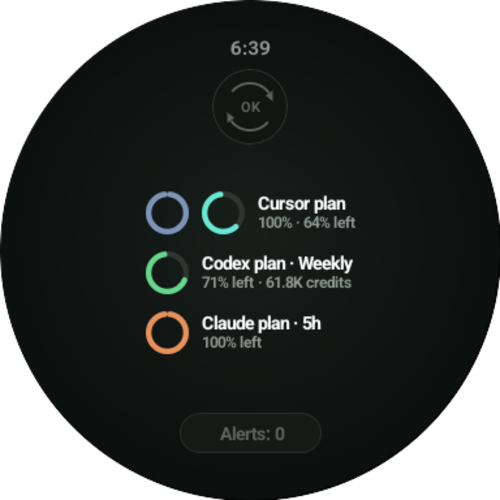
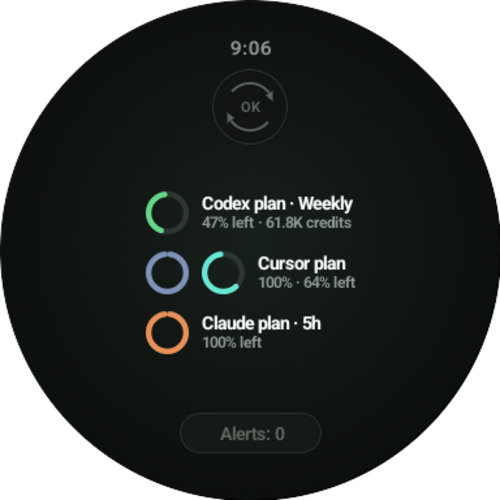
docs(docs): align showcases with one application state

Changed region(s): [[0.27, 0.36, 0.72, 0.6], [0.45, 0.06, 0.54, 0.12]]

diff --git a/docs/site/vocs.config.ts b/docs/site/vocs.config.ts
@@ -31,19 +31,19 @@ type HtmlNode = {
 const screenshots = [
   {
     url: '/screenshots/phone-dashboard-overview-light.png',
-    alt: 'WardPulse phone Dashboard showing Claude plan windows and organization usage history in the light theme.',
+    alt: 'WardPulse phone Dashboard showing Claude plan windows at 100% left and organization usage history of 39 tokens in the light theme.',
     caption: 'Phone Dashboard · Plan windows and usage history',
     darkOriginalUrl: '/screenshots/phone-dashboard-overview-dark.png',
   },
   {
     url: '/screenshots/wear-glance-overview.png',
-    alt: 'WardPulse Watch Glance showing Cursor, Codex and Claude plan capacity with purchased credits.',
-    caption: 'Watch Glance · Plan capacity and credits',
+    alt: 'WardPulse Watch Glance showing Codex Weekly at 47% left with 61.8K purchased credits, Cursor at 100% / 64% left and Claude 5h at 100% left.',
+    caption: 'Watch Glance · Selected plan capacity and credits',
   },
   {
     url: '/screenshots/wear-watch-face.png',
-    alt: 'Historical WardPulse watch face showing usage rings and upper complications.',
-    caption: 'Historical WardPulse face',
+    alt: 'WardPulse watch face showing Codex Weekly at 47%, Cursor at 100% / 64% and Claude 5h at 100% left, with upper complications.',
+    caption: 'WardPulse face · Selected usage bands and upper complications',
   },
 ]
 

diff --git a/docs/assets/README.md b/docs/assets/README.md
@@ -12,21 +12,21 @@ watch PNGs are 500×500px with transparent corners outside the circular screen.
 
 ## Screenshot index
 
-The library contains 29 screenshots. On 2026-10-20, twenty general-purpose phone images
-were refreshed and three images were added: a healthy Dashboard theme pair and Watch
-Glance. The original Dashboard warning pair and stale Glance remain available only for
-explanations of those exact states. Date added is unchanged by a refresh.
+The library contains 29 screenshots. On 2026-10-21, the eleven related Dashboard, Watch
+and Widget images were refreshed from one shared live state. The original Dashboard
+warning pair and stale Glance remain available only for explanations of those exact
+states. Date added is unchanged by a refresh.
 
-The Used in column records the source placements for each image. Last verified 2026-10-20
-records actual-frame review of the 23 new captures; earlier dates retain the verification
-scope recorded in the historical sections. Image review and publication review are
+The Used in column records the source placements for each image. Last verified records
+actual-frame review on the stated date; the dated capture sections describe its scope.
+Image review and publication review are
 separate: check theme selection, original-image links, layout and captions whenever an
 image or its placement changes.
 
 | File | Description | Theme | Date added | Captured | Last verified | Dimensions | App | Used in |
 | --- | --- | --- | --- | --- | --- | --- | --- | --- |
-| [phone-dashboard-overview-light.png](phone-dashboard-overview-light.png) | Healthy Dashboard with Claude plan windows and a nonzero usage-history bar. | Light | 2026-10-20 | 2026-10-20 | 2026-10-20 | 864×1920 | WardPulse phone | Light landing/README and Dashboard guide |
-| [phone-dashboard-overview-dark.png](phone-dashboard-overview-dark.png) | Healthy Dashboard with Claude plan windows and a nonzero usage-history bar. | Dark | 2026-10-20 | 2026-10-20 | 2026-10-20 | 864×1920 | WardPulse phone | Dark landing/README and Dashboard guide |
+| [phone-dashboard-overview-light.png](phone-dashboard-overview-light.png) | Shared-state Dashboard: Claude windows 100% left and organization history 39 tokens. | Light | 2026-10-20 | 2026-10-21 | 2026-10-21 | 864×1920 | WardPulse phone | Light landing/README and Dashboard guide |
+| [phone-dashboard-overview-dark.png](phone-dashboard-overview-dark.png) | Shared-state Dashboard: Claude windows 100% left and organization history 39 tokens. | Dark | 2026-10-20 | 2026-10-21 | 2026-10-21 | 864×1920 | WardPulse phone | Dark landing/README and Dashboard guide |
 | [phone-dashboard-light.png](phone-dashboard-light.png) | Claude unsupported-response warning and previous data. | Light | 2026-10-14 | 2026-10-18 | 2026-10-18 | 864×1920 | WardPulse phone | Light Troubleshooting guide, warning / previous-data example only |
 | [phone-dashboard-dark.png](phone-dashboard-dark.png) | Claude unsupported-response warning and previous data. | Dark | 2026-10-14 | 2026-10-18 | 2026-10-18 | 864×1920 | WardPulse phone | Dark Troubleshooting guide, warning / previous-data example only |
 | [phone-providers-light.png](phone-providers-light.png) | Four visible Connected rows and independent actions, without a warning badge. | Light | 2026-10-14 | 2026-10-20 | 2026-10-20 | 864×1920 | WardPulse phone | Providers overview; Anthropic/Cursor connection examples; Getting started; Dashboard actions |
@@ -43,19 +43,58 @@ image or its placement changes.
 | [phone-budget-limits-dark.png](phone-budget-limits-dark.png) | Organization reporting Budget: unsaved Today 25.00; Week/Month empty. | Dark | 2026-10-14 | 2026-10-20 | 2026-10-20 | 864×1920 | WardPulse phone | Dark Dashboard guide |
 | [phone-alert-thresholds-light.png](phone-alert-thresholds-light.png) | Claude plan Alerts: unsaved Plan 20% left; Purchased Off. | Light | 2026-10-14 | 2026-10-20 | 2026-10-20 | 864×1920 | WardPulse phone | Light Dashboard guide |
 | [phone-alert-thresholds-dark.png](phone-alert-thresholds-dark.png) | Claude plan Alerts: unsaved Plan 20% left; Purchased Off. | Dark | 2026-10-14 | 2026-10-20 | 2026-10-20 | 864×1920 | WardPulse phone | Dark Dashboard guide |
-| [phone-widget-settings-light.png](phone-widget-settings-light.png) | Actual widget selections, five of six slots used, with healthy plan status. | Light | 2026-10-14 | 2026-10-20 | 2026-10-20 | 864×1920 | WardPulse phone | Light Widget guide |
-| [phone-widget-settings-dark.png](phone-widget-settings-dark.png) | Actual widget selections, five of six slots used, with healthy plan status. | Dark | 2026-10-14 | 2026-10-20 | 2026-10-20 | 864×1920 | WardPulse phone | Dark Widget guide |
-| [phone-home-widget-light.png](phone-home-widget-light.png) | Healthy launcher widget with five metric rows and purchased credits. | Light | 2026-10-14 | 2026-10-20 | 2026-10-20 | 864×1920 | WardPulse phone | Light Widget guide |
-| [phone-home-widget-dark.png](phone-home-widget-dark.png) | Healthy launcher widget with five metric rows and purchased credits. | Dark | 2026-10-14 | 2026-10-20 | 2026-10-20 | 864×1920 | WardPulse phone | Dark Widget guide |
-| [phone-watch-settings-light.png](phone-watch-settings-light.png) | Healthy selected plan metrics, with unconfigured Platform entries below Plan. | Light | 2026-10-14 | 2026-10-20 | 2026-10-20 | 864×1920 | WardPulse phone | Light Watch guide |
-| [phone-watch-settings-dark.png](phone-watch-settings-dark.png) | Healthy selected plan metrics, with unconfigured Platform entries below Plan. | Dark | 2026-10-14 | 2026-10-20 | 2026-10-20 | 864×1920 | WardPulse phone | Dark Watch guide |
-| [wear-glance-overview.png](wear-glance-overview.png) | Healthy plan capacities and credits; ordinary gray OK while refresh waits, no Stale label. | Fixed dark | 2026-10-20 | 2026-10-20 | 2026-10-20 | 500×500 | WardPulse Wear | Both landing/README themes and general Watch guide |
+| [phone-widget-settings-light.png](phone-widget-settings-light.png) | Five selected metrics: Claude 100%/100%, Cursor 100%/64%, Codex 47%, all OK. | Light | 2026-10-14 | 2026-10-21 | 2026-10-21 | 864×1920 | WardPulse phone | Light Widget guide |
+| [phone-widget-settings-dark.png](phone-widget-settings-dark.png) | Five selected metrics: Claude 100%/100%, Cursor 100%/64%, Codex 47%, all OK. | Dark | 2026-10-14 | 2026-10-21 | 2026-10-21 | 864×1920 | WardPulse phone | Dark Widget guide |
+| [phone-home-widget-light.png](phone-home-widget-light.png) | The same five selected metrics in the launcher widget, with Codex 61.8K credits. | Light | 2026-10-14 | 2026-10-21 | 2026-10-21 | 864×1920 | WardPulse phone | Light Widget guide |
+| [phone-home-widget-dark.png](phone-home-widget-dark.png) | The same five selected metrics in the launcher widget, with Codex 61.8K credits. | Dark | 2026-10-14 | 2026-10-21 | 2026-10-21 | 864×1920 | WardPulse phone | Dark Widget guide |
+| [phone-watch-settings-light.png](phone-watch-settings-light.png) | Selected Claude 5h 100%, Cursor 100%/64% and Codex Weekly 47%; three bands used. | Light | 2026-10-14 | 2026-10-21 | 2026-10-21 | 864×1920 | WardPulse phone | Light Watch guide |
+| [phone-watch-settings-dark.png](phone-watch-settings-dark.png) | Selected Claude 5h 100%, Cursor 100%/64% and Codex Weekly 47%; three bands used. | Dark | 2026-10-14 | 2026-10-21 | 2026-10-21 | 864×1920 | WardPulse phone | Dark Watch guide |
+| [wear-glance-overview.png](wear-glance-overview.png) | Shared-state Codex 47% / 61.8K credits, Cursor 100%/64%, Claude 5h 100%; gray OK. | Fixed dark | 2026-10-20 | 2026-10-21 | 2026-10-21 | 500×500 | WardPulse Wear | Both landing/README themes and general Watch guide |
 | [wear-glance.png](wear-glance.png) | Plan/window titles and credits; amber !OK / Stale, Alerts 0 disabled. | Fixed dark | 2026-10-14 | 2026-10-18 | 2026-10-18 | 500×500 | WardPulse Wear | Watch guide, refresh-status explanation of Stale / !OK only |
-| [wear-plan-windows.png](wear-plan-windows.png) | First visible reset-ordered window: Codex Weekly plan, 60% left, back Oct 24. | Fixed dark | 2026-10-14 | 2026-10-18 | 2026-10-18 | 500×500 | WardPulse Wear | Watch guide in both themes |
-| [wear-watch-face.png](wear-watch-face.png) | Historical WardPulse bands/upper complications; Source-backed reuse, not current selected face. | Fixed dark | 2026-10-14 | 2026-10-14 | 2026-10-18 | 500×500 | WardPulse watch face | Both landing/README themes and Watch guide |
+| [wear-plan-windows.png](wear-plan-windows.png) | Shared-state first window: Claude Weekly plan, 100% left, back Oct 25 at 09:00. | Fixed dark | 2026-10-14 | 2026-10-21 | 2026-10-21 | 500×500 | WardPulse Wear | Watch guide in both themes |
+| [wear-watch-face.png](wear-watch-face.png) | Actual selected WardPulse face with the same Codex 47%, Cursor 100%/64%, Claude 100% and 61.8K credits. | Fixed dark | 2026-10-14 | 2026-10-21 | 2026-10-21 | 500×500 | WardPulse watch face | Both landing/README themes and Watch guide |
 | [wear-watch-face-utility.png](wear-watch-face-utility.png) | Historical manual-selection guidance after Don’t allow; Source-backed UI reuse. | Fixed dark | 2026-10-16 | 2026-10-16 | 2026-10-18 | 500×500 | WardPulse Wear | Watch guide in both themes |
 
+## Shared-state capture refresh, 2026-10-21
+
+The eleven refreshed images form one related group: the Dashboard theme pair, Glance,
+watch face, Plan windows, Watchface selection theme pair, Widget selection theme pair
+and launcher-widget theme pair. They were captured on the canonical phone and round Wear
+AVDs between 07:05:45 and 07:09:18 UTC from the live snapshot generated at 07:04:39 UTC.
+The watch logged receipt at 09:04:46.448 local time. Its derived summary was identical
+before and after the entire capture window; no data or selections were injected.
+
+Both Claude windows show 100% left; the selected watch window is 5h. Codex Weekly shows
+47% left with 61.8K purchased credits. Cursor Models/Other Models show 100%/64% left on
+the compact surfaces. The first Plan window is Claude Weekly, back Oct 25 at 09:00,
+matching the Dashboard reset. Both Dashboard themes show 21 history buckets and 39 tokens.
+The five checked widget metrics match all five launcher rows. Glance and the face share
+the three selected bands and their order. These are actual anonymous app states, not
+Mock/demo images. Only normal surface rounding differs; no visible value was retouched.
+
+Phone package `app.wardpulse` was versionName 1.0/versionCode 1, last updated
+2026-10-20 16:44:11; Wear `app.wardpulse` was 0.1.0/1, last updated 2026-10-20 06:17:24.
+The already-selected WardPulse face was captured without changing its selection or upper
+complications. Installed legacy and Push face packages both reported 0.1.0/1; the runtime
+wallpaper component alone does not identify which package supplies the active face.
+No APK hash or compiled-source identity was measured in this session.
+
+Eight phone captures were resized proportionally from 1080×2400 to 864×1920. Three actual
+384×384 round Wear captures were masked only outside the screen and resized to 500×500,
+with antialiased transparent edges. All eleven frames were viewed for matching readings,
+theme, privacy, ordinary status indicators and absence of errors or Stale labels. Image
+review does not replace the separate publication checks described above.
+
+Only phone system theme and notification-icon visibility were temporarily changed;
+notifications were not dismissed. The phone returned to light appearance, status-bar masks
+0/0 and Dashboard at the Cursor history section. Wear returned to the original WardPulse
+face in Dozing. Ring/widget selections, consent, provider settings, cadence, pairing and
+installed packages were not changed; no inference requests were made.
+
 ## Capture refresh, 2026-10-20
+
+This section records the October 20 image bytes and review. For the eleven files refreshed
+on October 21, the shared-state capture section above supersedes its values and provenance.
 
 The 22 phone images are actual anonymous captures from canonical
 `wardpulse_phone_play_api36`, discovered as `emulator-5554`, at native 1080×2400 and font
@@ -98,9 +137,8 @@ requests were made for this screenshot refresh.
 
 The following dated records describe earlier image bytes and verification. Their capture
 counts, hashes, current-state wording and normalization details are historical. For files
-refreshed on 2026-10-20, the index and capture section above supersede those earlier facts.
-The retained Dashboard error pair and four retained Wear files keep their original dates;
-no new capture of them is implied.
+refreshed later, the index and corresponding capture section above supersede those earlier
+facts. The current index identifies which images retain their earlier capture dates.
 
 ## Capture refresh, 2026-10-18
 

diff --git a/README.md b/README.md
@@ -7,19 +7,19 @@ Wear OS summary, watch face and home-screen widget.
 <table width="100%">
   <tr>
     <td width="50%" rowspan="2" align="center">
-      <a href="docs/assets/phone-dashboard-overview-light.png#gh-light-mode-only"><img src="docs/assets/phone-dashboard-overview-light.png#gh-light-mode-only" width="216" alt="WardPulse phone Dashboard showing Claude plan windows and organization usage history in the light theme."></a>
-      <a href="docs/assets/phone-dashboard-overview-dark.png#gh-dark-mode-only"><img src="docs/assets/phone-dashboard-overview-dark.png#gh-dark-mode-only" width="216" alt="WardPulse phone Dashboard showing Claude plan windows and organization usage history in the dark theme."></a><br>
+      <a href="docs/assets/phone-dashboard-overview-light.png#gh-light-mode-only"><img src="docs/assets/phone-dashboard-overview-light.png#gh-light-mode-only" width="216" alt="WardPulse phone Dashboard showing Claude plan windows at 100% left and organization usage history of 39 tokens in the light theme."></a>
+      <a href="docs/assets/phone-dashboard-overview-dark.png#gh-dark-mode-only"><img src="docs/assets/phone-dashboard-overview-dark.png#gh-dark-mode-only" width="216" alt="WardPulse phone Dashboard showing Claude plan windows at 100% left and organization usage history of 39 tokens in the dark theme."></a><br>
       <strong>Phone Dashboard · Plan windows and usage history</strong>
     </td>
     <td width="50%" align="center">
-      <a href="docs/assets/wear-glance-overview.png"><img src="docs/assets/wear-glance-overview.png" width="200" alt="WardPulse Watch Glance showing Cursor, Codex and Claude plan capacity with purchased credits."></a><br>
-      <strong>Watch Glance · Plan capacity and credits</strong>
+      <a href="docs/assets/wear-glance-overview.png"><img src="docs/assets/wear-glance-overview.png" width="200" alt="WardPulse Watch Glance showing Codex Weekly at 47% left with 61.8K purchased credits, Cursor at 100% / 64% left and Claude 5h at 100% left."></a><br>
+      <strong>Watch Glance · Selected plan capacity and credits</strong>
     </td>
   </tr>
   <tr>
     <td width="50%" align="center">
-      <a href="docs/assets/wear-watch-face.png"><img src="docs/assets/wear-watch-face.png" width="200" alt="Historical WardPulse watch face showing usage rings and upper complications."></a><br>
-      <strong>Historical WardPulse face</strong>
+      <a href="docs/assets/wear-watch-face.png"><img src="docs/assets/wear-watch-face.png" width="200" alt="WardPulse watch face showing Codex Weekly at 47%, Cursor at 100% / 64% and Claude 5h at 100% left, with upper complications."></a><br>
+      <strong>WardPulse face · Selected usage bands and upper complications</strong>
     </td>
   </tr>
 </table>

diff --git a/docs/product/user-guide/WATCH.md b/docs/product/user-guide/WATCH.md
@@ -32,9 +32,9 @@ Swipe upward to the second page, **Plan windows**, to see reported windows and w
 return. Exhausted windows appear first. Within each group, upcoming resets appear soonest
 first; missing or overdue reset times follow. Reset times may be unavailable.
 
-![Plan windows showing Codex Weekly plan and its reported reset time.](/screenshots/wear-plan-windows.png)
+![Plan windows showing Claude Weekly plan and its reported reset time.](/screenshots/wear-plan-windows.png)
 
-The captured first window is **Codex · Weekly plan**, with **60% left · back Oct 24, 22:40**.
+The first window here is **Claude · Weekly plan**, with **100% left · back Oct 25, 09:00**.
 
 ### Alerts and refresh
 
@@ -149,10 +149,11 @@ On Wear OS 5, or another compatible watch without bundled installation, install 
 Watch Face separately and select it from your watch-face list. The existing separate
 installation and its settings are preserved.
 
-![Historical WardPulse circular watch face with selected usage bands and upper complications.](/screenshots/wear-watch-face.png)
+![WardPulse circular watch face with the selected Codex, Cursor and Claude usage bands and upper complications.](/screenshots/wear-watch-face.png)
 
-Historical WardPulse face example. The lowest selected remaining percentage fills the
-innermost band; upper cells show watch complications.
+The same selected metrics appear on Glance and the face. Here, Codex has **47% left**,
+Cursor has **100% / 64% left**, and Claude has **100% left**. Codex fills the innermost
+band; the upper cells show watch complications.
 
 The three upper complication cells are customized in the **system watch-face editor**. Open
 the watch's edit/customize action for WardPulse and select an upper cell to choose an available

diff --git a/.agents/skills/user-docs/SKILL.md b/.agents/skills/user-docs/SKILL.md
@@ -76,6 +76,15 @@ home-screen widgets. Choose the smallest useful set; avoid decorative quotas or 
 walls of images. Guide images follow the same theme, clean-status-bar, privacy, size, index
 and freshness rules below.
 
+Screenshots of different components shown together or beside one another must depict a
+shared application state. Capture the whole related group in one session from the same
+live phone snapshot and its delivered watch/widget state; do not mix historical and current
+captures. Check overlapping percentages, purchased credits, selected pools and windows,
+history and statuses across components and both themes, allowing only the surfaces' actual
+display rounding. If the underlying state changes during capture, recapture the whole
+affected group. Record the shared state and capture session in the screenshot index. Apply
+this rule to guide pages as well as the identical approved Overview/README gallery.
+
 Prefer clear captions. Useful action highlights are optional editorial overlays authored by
 Runner over clean PNGs: transparent interior, `#2563EB` outline at 2 CSS px, 4 CSS px clearance
 around the confirmed glyph bounds and 8 CSS px corner radius, retained at responsive sizes.

diff --git a/docs/product/user-guide/DASHBOARD.md b/docs/product/user-guide/DASHBOARD.md
@@ -5,6 +5,20 @@ and API connections appear together under their provider family: OpenAI, Anthrop
 Each connection keeps its own data and status. Not every account provides spend, model detail,
 purchased usage or a history chart.
 
+## Display order
+
+Provider families with the most urgent status appear first: **Error**, **Auth required**,
+**Rate limited**, **Warning**, **Stale**, **Unknown**, then **OK**. Each family takes the
+most urgent status of its connections and allowances.
+
+When statuses match, higher monthly spend comes first where the currencies can be compared.
+Remaining ties use **Anthropic → Cursor → OpenAI**. Ordinary changes to percentages or spend
+keep the current order; a status change or an added or removed provider family recalculates it.
+
+Within each family, the plan appears before API reporting, and each history stays beside
+its source. Remaining percentages do not set the Dashboard order. The
+[watch orders selected metrics by remaining capacity](/guide/watch#display-order).
+
 ## Read balances and bars
 
 - **Plan** percentages speak in capacity **left**. A fuller plan bar means more remaining

diff --git a/docs/product/user-guide/WIDGET.md b/docs/product/user-guide/WIDGET.md
@@ -31,7 +31,8 @@ of rows and columns.
 
 ![WardPulse home widget showing five metric rows and Codex purchased credits on the Android launcher in the dark theme.](/screenshots/phone-home-widget-dark.png)
 
-This example fits all five selected metrics, with purchased credits beside the Codex row.
+The widget shows the same five metrics selected above, with purchased credits beside the
+Codex row.
 
 ## Resize for the information you need
 
